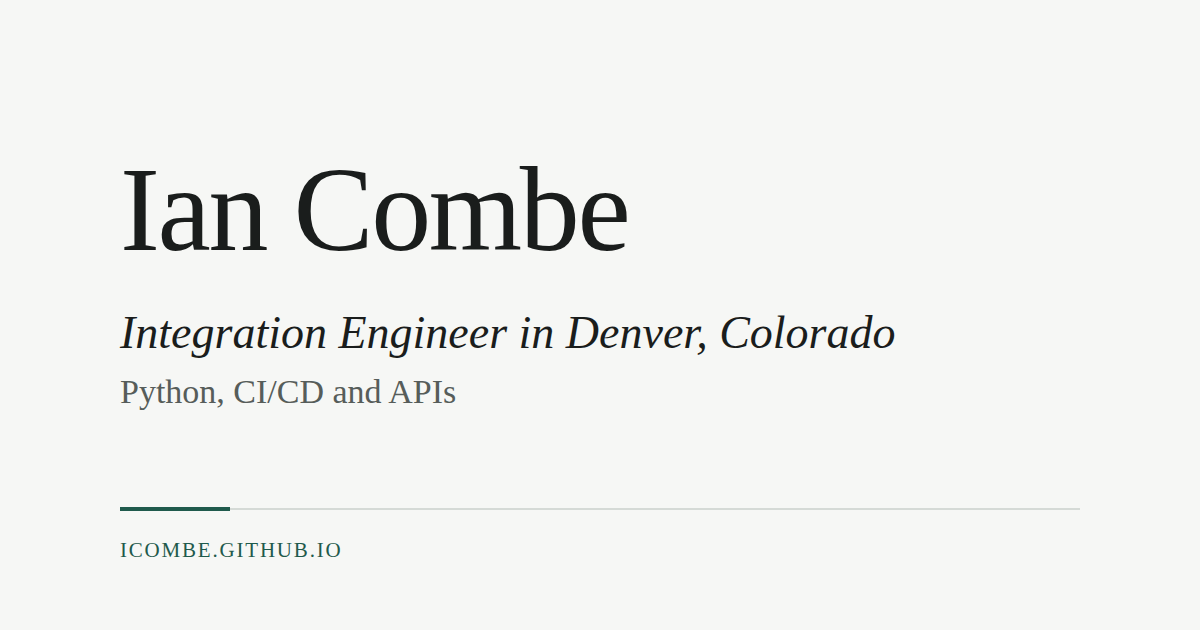
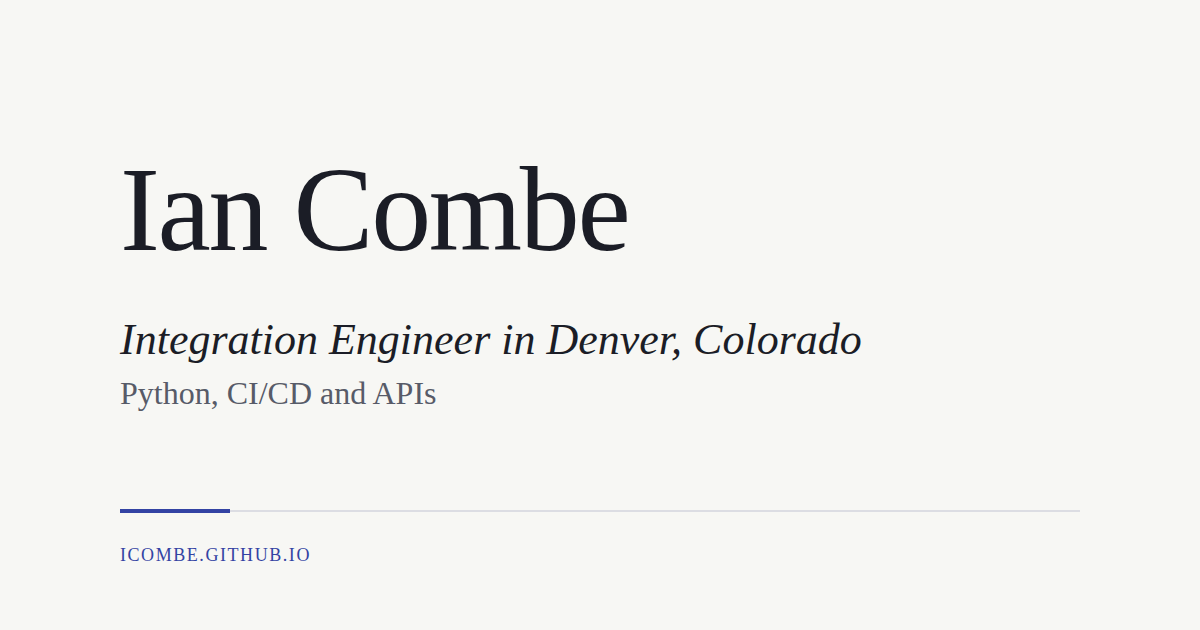
style: indigo ink palette, footer with Save as PDF button, MSS dated Fall 2025
- Palette: neutral paper, blue-black ink, indigo accent; blue-night dark mode
  with periwinkle accent. All text pairs AA (see docs/design.md).
- Section headings take the accent ink.
- Footer shown on all widths: copyright, last updated, source, Save as PDF.
  Button ships hidden and a 4-line script reveals it (no dead button without JS).
- Print body uses full page width; one page verified at Letter and A4.
- Favicon and og.png redrawn in the new palette.
- Note: CLAUDE.md still says JS is "theme toggle only"; needs /retro.

diff --git a/styles.css b/styles.css
@@ -8,12 +8,13 @@
 :root {
   color-scheme: light dark;
 
-  /* Color (light): cool chalk paper, ink, spruce accent. Dark overrides in section 2. */
-  --bg: #f6f7f5;
-  --text: #1a1d1c;
-  --muted: #565d5a;
-  --accent: #1f5a4c;
-  --rule: #d5dad6;          /* decorative dividers only, never text */
+  /* Color (light): neutral paper, blue-black ink, indigo fountain-pen accent.
+     Dark overrides in section 2. */
+  --bg: #f7f7f4;
+  --text: #1b1d26;
+  --muted: #575b68;
+  --accent: #3343a3;
+  --rule: #dcdde3;          /* decorative dividers only, never text */
 
   /* Type: four sizes, no more */
   --step-0: 0.875rem;       /* stack lines, links row, footer */
@@ -38,11 +39,11 @@
    Follows the visitor's system setting. Keep contrast at or above 4.5:1 for text. */
 @media (prefers-color-scheme: dark) {
   :root {
-    --bg: #121614;
-    --text: #e4e8e6;
-    --muted: #a2aaa6;
-    --accent: #8cc7b4;
-    --rule: #2a312e;
+    --bg: #151821;          /* blue night, not black */
+    --text: #e7e8ef;
+    --muted: #a4a8b8;
+    --accent: #a3b2ff;      /* periwinkle: the indigo ink lifted for dark paper */
+    --rule: #2b2f3d;
   }
 }
 
@@ -100,7 +101,9 @@ a:focus-visible { outline: 2px solid var(--accent); outline-offset: 3px; border-
   border-top: 1px solid var(--rule);
 }
 .section__body { max-width: var(--measure); }
-/* Accent mark: a short spruce segment where each divider begins */
+/* Margin headings in the accent ink, like notes written beside the text */
+.section__title { color: var(--accent); }
+/* Accent mark: a short indigo segment where each divider begins */
 .section::before {
   content: "";
   position: absolute;
@@ -131,7 +134,7 @@ a:focus-visible { outline: 2px solid var(--accent); outline-offset: 3px; border-
 .entry__date { margin-left: auto; }
 .entry__stack { margin: 0 0 0.625rem; }
 
-/* Points: short lines with a spruce dash, easier to scan than a paragraph */
+/* Points: short lines with an indigo dash, easier to scan than a paragraph */
 .points { margin: 0; padding: 0; list-style: none; }
 .points li { position: relative; padding-left: 1.25rem; }
 .points li + li { margin-top: 0.375rem; }
@@ -139,8 +142,26 @@ a:focus-visible { outline: 2px solid var(--accent); outline-offset: 3px; border-
 .entry > :last-child { margin-bottom: 0; }
 
 /* 7. FOOTER ------------------------------------------------------------ */
-.site-footer { padding-top: 1.5rem; border-top: 1px solid var(--rule); color: var(--muted); font-size: var(--step-0); }
+.site-footer { display: grid; padding-top: 1.5rem; border-top: 1px solid var(--rule); color: var(--muted); }
+/* Font size set here, not on the footer, so the grid's 66ch matches the sections */
+.site-footer__body { font-size: var(--step-0); display: flex; flex-wrap: wrap; align-items: baseline; justify-content: space-between; gap: 0.75rem 1.5rem; }
 .site-footer p { margin: 0; }
+
+/* Save as PDF: hidden until the script at the end of index.html reveals it,
+   so visitors without JavaScript never see a dead button. */
+.print-button {
+  padding: 0.3rem 0.9rem;
+  border: 1px solid color-mix(in srgb, var(--accent) 45%, transparent);
+  border-radius: 999px;
+  background: transparent;
+  color: var(--accent);
+  font: inherit;
+  cursor: pointer;
+  transition: background-color 0.15s, border-color 0.15s;
+}
+.print-button[hidden] { display: none; }
+.print-button:hover { border-color: var(--accent); background: color-mix(in srgb, var(--accent) 8%, transparent); }
+.print-button:focus-visible { outline: 2px solid var(--accent); outline-offset: 3px; }
 
 /* 8. RESPONSIVE ---------------------------------------------------------
    Wide screens: portrait and headings in the left column, everything else on one axis.
@@ -148,11 +169,12 @@ a:focus-visible { outline: 2px solid var(--accent); outline-offset: 3px; border-
 @media (min-width: 52rem) {
   body { padding-top: 6rem; }
   .site-header,
-  .section { grid-template-columns: var(--margin-col) minmax(0, var(--measure)); column-gap: var(--gap); }
+  .section,
+  .site-footer { grid-template-columns: var(--margin-col) minmax(0, var(--measure)); column-gap: var(--gap); }
   .section { align-items: baseline; }   /* heading sits on the body's first line */
   .site-header { align-items: start; margin-bottom: 4rem; }
   .site-header img { margin-top: 0.4rem; }
-  .site-footer { display: none; }  /* site metadata, not résumé content */
+  .site-footer__body { grid-column: 2; }  /* footer text shares the content edge */
 }
 @media (max-width: 30rem) {
   :root { --step-3: 2.25rem; --section-space: 2.25rem; }
@@ -161,9 +183,9 @@ a:focus-visible { outline: 2px solid var(--accent); outline-offset: 3px; border-
   .site-header img { width: 80px; height: 80px; }
 }
 
-/* Motion: the link underline fade is the only transition */
+/* Motion: link underline and button hover fades are the only transitions */
 @media (prefers-reduced-motion: reduce) {
-  a { transition: none; }
+  a, .print-button { transition: none; }
 }
 
 /* 9. PRINT --------------------------------------------------------------
@@ -176,6 +198,7 @@ a:focus-visible { outline: 2px solid var(--accent); outline-offset: 3px; border-
   body { max-width: none; padding: 0; }
   .site-header, .section { grid-template-columns: var(--margin-col) minmax(0, 1fr); column-gap: var(--gap); }
   .section { align-items: baseline; }
+  .section__body { max-width: none; }  /* use the page width; keeps dates on the title line */
   .site-header { margin-bottom: 1rem; }
   .site-header img { visibility: hidden; height: 0; }
   .lede { font-size: var(--step-1); }

diff --git a/index.html b/index.html
@@ -159,7 +159,7 @@
           <div class="entry__head">
             <h3 class="entry__title">Market Signal Summarizer</h3>
             <a class="entry__link" href="https://github.com/icombe/market-signal-summarizer" target="_blank" rel="noopener noreferrer">Source on GitHub</a>
-            <span class="entry__date">2025</span>
+            <span class="entry__date">Fall 2025</span>
           </div>
           <p class="entry__stack">Team project. React, TypeScript, REST APIs, OpenAI</p>
           <ul class="points">
@@ -190,10 +190,21 @@
 
   </main>
 
-  <!-- FOOTER: update the date whenever content changes -->
+  <!-- FOOTER: update the date whenever content changes. Hidden in print. -->
   <footer class="site-footer">
-    <p>© Ian Combe. Last updated <time datetime="2026-11-27">27 November 2026</time>. <a href="https://github.com/icombe/icombe.github.io" target="_blank" rel="noopener noreferrer">Site source</a></p>
+    <div class="site-footer__body">
+      <p>© 2026 Ian Combe. Last updated <time datetime="2026-11-27">27 November 2026</time>. <a href="https://github.com/icombe/icombe.github.io" target="_blank" rel="noopener noreferrer">Site source</a></p>
+      <button type="button" class="print-button" hidden>Save as PDF</button>
+    </div>
   </footer>
+
+  <!-- The only script: reveals the Save as PDF button and opens the print dialog,
+       which lays the page out as a one-page résumé (print rules in styles.css). -->
+  <script>
+    const printButton = document.querySelector(".print-button");
+    printButton.hidden = false;
+    printButton.addEventListener("click", () => window.print());
+  </script>
 
 </body>
 </html>

diff --git a/docs/design.md b/docs/design.md
@@ -17,7 +17,7 @@ Avoided on purpose: gradient blobs, glassmorphism, emoji headings, centered hero
 ## Constraints
 
 - Static files only: `index.html`, `styles.css`, assets. No framework, no build step, no trackers.
-- JS: none by default (the JSON-LD block is data, not script). At most a few lines for a theme toggle, and only if `prefers-color-scheme` alone proves insufficient. Current plan: no JS.
+- JS: one four-line inline script at the end of `<body>` that reveals the footer's Save as PDF button and calls `window.print()` (Ian asked for it, November 2026). The button ships `hidden`, so without JavaScript it never appears. The JSON-LD block is data, not script. No other JS.
 - Page weight under 300 KB.
 
 ## Type scale
@@ -33,7 +33,7 @@ System font stacks only. Four sizes. Editing details: `docs/editing.md`.
 
 - One system serif stack for everything: `"Iowan Old Style", "Palatino Linotype", Palatino, "URW Palladio L", P052, Charter, "Bitstream Charter", Cambria, Georgia, serif` (Mac, Windows, Linux, then fallback). Ian chose serif in November 2026, reversing the step-1 sans; no web fonts.
 - Body line-height 1.7 (serif needs more than sans). Old-style numerals.
-- Hierarchy: name large at 400; section headings italic at the lede size; entry titles bold; dates and stack lines in small caps (`font-variant-caps: all-small-caps`). Experience and Projects run newest first; entry details are short bullets marked with a spruce en dash. No monospace.
+- Hierarchy: name large at 400; section headings italic at the lede size; entry titles bold; dates and stack lines in small caps (`font-variant-caps: all-small-caps`). Experience and Projects run newest first; entry details are short bullets marked with an indigo en dash. No monospace.
 - Measure: `66ch`, about 66 characters. The page width is margin column + gap + measure, so dividers end where the text ends.
 - Patterns borrowed from reference sites: Paco Coursey's italic tagline under the name and plain title-plus-line entries; Tania Rascia's small source link beside a project title; Tufte-style headings in the left margin.
 
@@ -43,30 +43,30 @@ One accent for links and the focus ring. Text pairs meet WCAG AA (4.5:1).
 
 | Token | Light | Dark | Contrast (L / D) |
 | --- | --- | --- | --- |
-| `--bg` | `#f6f7f5` | `#121614` | n/a |
-| `--text` | `#1a1d1c` | `#e4e8e6` | 15.8 / 14.8 |
-| `--muted` | `#565d5a` | `#a2aaa6` | 6.3 / 7.7 |
-| `--accent` | `#1f5a4c` | `#8cc7b4` | 7.4 / 9.5 |
-| `--rule` | `#d5dad6` | `#2a312e` | decorative dividers only |
+| `--bg` | `#f7f7f4` | `#151821` | n/a |
+| `--text` | `#1b1d26` | `#e7e8ef` | 15.7 / 14.5 |
+| `--muted` | `#575b68` | `#a4a8b8` | 6.3 / 7.5 |
+| `--accent` | `#3343a3` | `#a3b2ff` | 7.9 / 8.8 |
+| `--rule` | `#dcdde3` | `#2b2f3d` | decorative dividers only |
 
-Cool chalk neutrals rather than cream; a spruce-green accent rather than default link blue. Links carry a soft underline that turns solid on hover. Dark mode follows `prefers-color-scheme`.
+Neutral paper and blue-black ink; an indigo fountain-pen accent (periwinkle in dark mode, on a blue-night ground rather than black). Ian rejected the earlier spruce green in November 2026; warm cream with terracotta was avoided as a common template look. The accent colors links, the italic margin headings, the accent marks, bullet dashes and the Save as PDF button. Links carry a soft underline that turns solid on hover. Dark mode follows `prefers-color-scheme`.
 
 ## Layout
 
-A two-column grid from 52rem up. The portrait and the italic section headings sit in the left margin column; the name, every section body and the footer share one left edge in the right column. Each section opens with a 1px divider whose first 2.5rem is a 2px spruce segment (the accent mark); entries are separated by space only. Below 52rem everything stacks in one column.
+A two-column grid from 52rem up. The portrait and the italic section headings sit in the left margin column; the name, every section body and the footer share one left edge in the right column. Each section opens with a 1px divider whose first 2.5rem is a 2px indigo segment (the accent mark); entries are separated by space only. Below 52rem everything stacks in one column.
 
 ```
   [portrait]      Ian Combe                               <- h1, step-3, regular
                   Integration Engineer in Denver, Colorado <- italic, step-2
                   Python, CI/CD and APIs                  <- muted
                   GitHub  LinkedIn  Email
-  ━━━──────────────────────────────────────────────────── divider, spruce accent mark
+  ━━━──────────────────────────────────────────────────── divider, indigo accent mark
   Now             At Sedna Inc I connect ...              <- lede, step-2
                   UPDATED NOVEMBER 2026                   <- muted small caps
   ━━━────────────────────────────────────────────────────
   Experience      Integration Engineer, Sedna Inc   AUG 2026 – PRESENT
                   PYTHON, PHP, ITOP ...                   <- muted small caps
-                  – bullet                                <- spruce dash
+                  – bullet                                <- indigo dash
                   Qualcomm field session            SUMMER 2025
   ━━━────────────────────────────────────────────────────
   Projects        Campus Service Desk  Source on GitHub  SUMMER 2026
@@ -75,7 +75,7 @@ A two-column grid from 52rem up. The portrait and the italic section headings si
   Skills          one line; learning on its own line
   ━━━────────────────────────────────────────────────────
   Education       B.S. Computer Science ...
-                  © Ian Combe. Last updated <date>. Site source  <- phones only
+                  © 2026 Ian Combe. Last updated <date>. Site source   (Save as PDF)
 ```
 Semantic structure: `<header>`, `<main>` with one `<section>` per block, `<footer>`. One `<h1>`; section headings `<h2>`; project titles `<h3>`.
 
@@ -87,13 +87,14 @@ Semantic structure: `<header>`, `<main>` with one `<section>` per block, `<foote
 - Qualcomm field session (May 2025 to June 2025): originally undated.
 
 ## Decisions from Ian (November 2026 design pass)
-- Every entry shows a date at the right of its title: Market Signal Summarizer 2025, Campus Service Desk Summer 2026, Qualcomm Summer 2025. Market Signal Summarizer links to its repo; Ian built the frontend and its integration with the backend APIs.
+- Every entry shows a date at the right of its title: Market Signal Summarizer Fall 2025, Campus Service Desk Summer 2026, Qualcomm Summer 2025. Market Signal Summarizer links to its repo; Ian built the frontend and its integration with the backend APIs.
 - No "open to roles" line: Ian is currently employed.
+- Footer shows on every screen size: "© 2026 Ian Combe", last updated date, site source link and a Save as PDF button. It is hidden in print. Print verified one page at Letter and A4.
 - Print or "Save as PDF" gives a one-page résumé: black on white, no portrait, link addresses spelled out, email hidden. The Now section, stamp, accent marks and footer are hidden in print (Experience covers Now).
 - Experience (Sedna, Qualcomm field session) is separate from Projects. Sedna is described with public technology names only.
 - Tipsy Taxi is back (Spring 2026): a fun project that sparks conversation. Its wording comes from the old site copy.
 - Campus Service Desk notes it was written entirely by hand.
-- Now carries an "Updated <month>" stamp. Favicon: italic serif "IC" on spruce. `og.png` matches the page: chalk ground, serif name, italic role, spruce accent segment.
+- Now carries an "Updated <month>" stamp. Favicon: italic serif "IC" on indigo. `og.png` matches the page: paper ground, serif name, italic role, indigo accent segment.
 
 ## SEO (roadmap step 2)
 - Title, meta description naming Ian, canonical URL, Open Graph and Twitter card tags, `og.png` at 1200x630.

diff --git a/docs/editing.md b/docs/editing.md
@@ -16,7 +16,7 @@ Preview: `python3 -m http.server 8000`, then open http://localhost:8000.
 ## Rules that must hold after any edit
 - Use only facts Ian supplied. If something is missing, ask. No employer internals (see `CLAUDE.md`).
 - Every `<a>` has `target="_blank" rel="noopener noreferrer"`, except the 404 home link.
-- Four type sizes only (`--step-0` to `--step-3`). System fonts. No JavaScript, no trackers.
+- Four type sizes only (`--step-0` to `--step-3`). System fonts. No trackers. The only script is the Save as PDF one at the end of `index.html`; add no other.
 - Text contrast stays at or above 4.5:1 in light and dark.
 - Update the Now stamp (`<p class="stamp">`) when Now changes.
 - Update the footer's "Last updated" date (`<time datetime>` and its visible text) and the sitemap `<lastmod>` whenever content changes.
@@ -63,6 +63,6 @@ Sections, top to bottom: Now, Experience, Projects, Skills, Education.
 
 ## Check before committing
 1. Reload the page in light and dark mode and at phone width.
-2. Confirm no executable `<script>` was added (the JSON-LD `application/ld+json` block in `<head>` is data and stays; keep it in sync with the visible content) and total size is still small (`du -sh` on the repo root files, excluding `.git`).
+2. Confirm no new executable `<script>` was added beyond the Save as PDF one (the JSON-LD `application/ld+json` block in `<head>` is data and stays; keep it in sync with the visible content) and total size is still small (`du -sh` on the repo root files, excluding `.git`).
 3. Print preview (Ctrl+P) still fits one Letter page.
 4. Commit with a conventional message, for example `content: add project X`.
